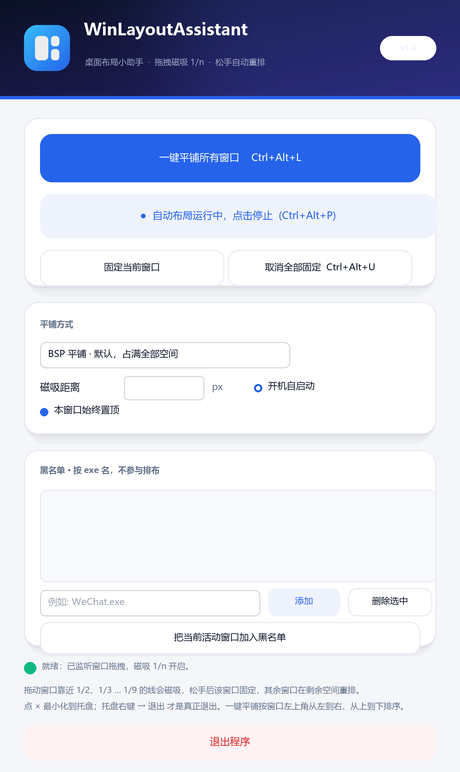
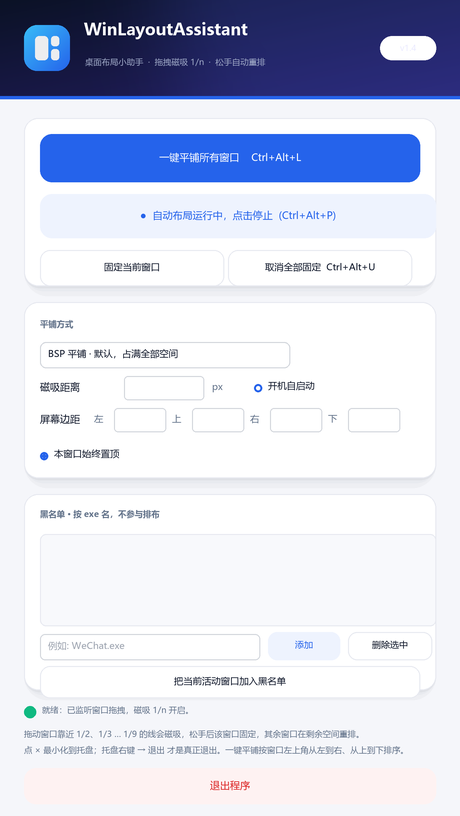
v1.4: per-edge screen margins (left/top/right/bottom)
New settings card row: margins in px are excluded from every layout
area - one-click tile, drag-end reflow and 1/n drag-snap all respect
the same shrunken work area via AppSettings.ApplyMargins(), applied
at the single choke point where a work area enters the pipeline.
Defaults are 0 (previous behavior). Persisted in settings.json.

diff --git a/src/MainForm.cs b/src/MainForm.cs
@@ -32,6 +32,10 @@ public sealed class MainForm : Form
     private readonly RoundedButton _autoBtn = new() { Width = 396, Height = 44, ButtonKind = RoundedButton.Kind.Soft };
     private readonly Label _status = new() { AutoSize = true, ForeColor = Theme.TextSecondary, Font = Theme.SmallFont, BackColor = Theme.Background };
     private readonly List<RoundedPanel> _cards = new();
+    private readonly NumericUpDown _marginL = new() { Minimum = 0, Maximum = 800, Width = 52, Font = Theme.BodyFont };
+    private readonly NumericUpDown _marginT = new() { Minimum = 0, Maximum = 800, Width = 52, Font = Theme.BodyFont };
+    private readonly NumericUpDown _marginR = new() { Minimum = 0, Maximum = 800, Width = 52, Font = Theme.BodyFont };
+    private readonly NumericUpDown _marginB = new() { Minimum = 0, Maximum = 800, Width = 52, Font = Theme.BodyFont };
     private readonly ListBox _blacklistBox = new() { Width = 396, Height = 92, Font = Theme.BodyFont, BorderStyle = BorderStyle.None, BackColor = Theme.Well };
     private readonly TextBox _blacklistInput = new() { Width = 220, Font = Theme.BodyFont, PlaceholderText = "例如: WeChat.exe", BorderStyle = BorderStyle.FixedSingle };
 
@@ -51,6 +55,10 @@ public sealed class MainForm : Form
         _threshold.Value = _settings.SnapThreshold;
         _startup.Checked = _settings.RunAtStartup;
         _topmost.Checked = _settings.TopMost;
+        _marginL.Value = _settings.MarginLeft;
+        _marginT.Value = _settings.MarginTop;
+        _marginR.Value = _settings.MarginRight;
+        _marginB.Value = _settings.MarginBottom;
         TopMost = _settings.TopMost; // v1.2: stay on top while running, switchable below
         RefreshBlacklistBox();
         UpdateAutoButton();
@@ -79,7 +87,7 @@ public sealed class MainForm : Form
         card1.Controls.AddRange(new Control[] { tileBtn, _autoBtn, pinBtn, unpinBtn });
 
         // --- card 2: layout settings ---
-        var card2 = new RoundedPanel { Top = 302, Left = 24, Width = 412, Height = 132 };
+        var card2 = new RoundedPanel { Top = 302, Left = 24, Width = 412, Height = 176 };
         _cards.Add(card2);
         card2.Controls.Add(new SectionLabel("平铺方式") { Top = 16, Left = 16 });
         _modeBox.Top = 40; _modeBox.Left = 16;
@@ -87,11 +95,21 @@ public sealed class MainForm : Form
         _threshold.Top = 74; _threshold.Left = 100;
         card2.Controls.Add(new Label { Text = "px", Top = 78, Left = 188, AutoSize = true, Font = Theme.BodyFont, ForeColor = Theme.TextSecondary, BackColor = Theme.Card });
         _startup.Top = 76; _startup.Left = 230;
-        _topmost.Top = 100; _topmost.Left = 16;
-        card2.Controls.AddRange(new Control[] { _modeBox, _threshold, _startup, _topmost });
+        // v1.4: per-edge screen margins excluded from tiling / reflow / snap
+        card2.Controls.Add(new Label { Text = "屏幕边距", Top = 110, Left = 16, AutoSize = true, Font = Theme.BodyFont, ForeColor = Theme.Text, BackColor = Theme.Card });
+        card2.Controls.Add(new Label { Text = "左", Top = 110, Left = 90, AutoSize = true, Font = Theme.BodyFont, ForeColor = Theme.TextSecondary, BackColor = Theme.Card });
+        _marginL.Top = 106; _marginL.Left = 110;
+        card2.Controls.Add(new Label { Text = "上", Top = 110, Left = 168, AutoSize = true, Font = Theme.BodyFont, ForeColor = Theme.TextSecondary, BackColor = Theme.Card });
+        _marginT.Top = 106; _marginT.Left = 188;
+        card2.Controls.Add(new Label { Text = "右", Top = 110, Left = 246, AutoSize = true, Font = Theme.BodyFont, ForeColor = Theme.TextSecondary, BackColor = Theme.Card });
+        _marginR.Top = 106; _marginR.Left = 266;
+        card2.Controls.Add(new Label { Text = "下", Top = 110, Left = 324, AutoSize = true, Font = Theme.BodyFont, ForeColor = Theme.TextSecondary, BackColor = Theme.Card });
+        _marginB.Top = 106; _marginB.Left = 344;
+        _topmost.Top = 144; _topmost.Left = 16;
+        card2.Controls.AddRange(new Control[] { _modeBox, _threshold, _startup, _topmost, _marginL, _marginT, _marginR, _marginB });
 
         // --- card 3: blacklist ---
-        var card3 = new RoundedPanel { Top = 450, Left = 24, Width = 412, Height = 196 };
+        var card3 = new RoundedPanel { Top = 494, Left = 24, Width = 412, Height = 196 };
         _cards.Add(card3);
         card3.Controls.Add(new SectionLabel("黑名单 · 按 exe 名，不参与排布") { Top = 14, Left = 16 });
         _blacklistBox.Top = 40; _blacklistBox.Left = 16;
@@ -105,22 +123,26 @@ public sealed class MainForm : Form
         card3.Controls.AddRange(new Control[] { _blacklistBox, _blacklistInput, blAddBtn, blDelBtn, blActiveBtn });
 
         // --- footer: status + exit ---
-        var dot = new GlowDot { Top = 662, Left = 24, Width = 12, Height = 12 };
-        _status.Top = 660; _status.Left = 42; _status.Width = 380;
+        var dot = new GlowDot { Top = 706, Left = 24, Width = 12, Height = 12 };
+        _status.Top = 704; _status.Left = 42; _status.Width = 380;
         var hint = new Label
         {
             Text = "拖动窗口靠近 1/2、1/3 … 1/9 的线会磁吸，松手后该窗口固定，其余窗口在剩余空间重排。\r\n点 × 最小化到托盘；托盘右键 → 退出 才是真正退出。一键平铺按窗口左上角从左到右、从上到下排序。",
-            Top = 684, Left = 24, Width = 412, Height = 36, ForeColor = Theme.TextSecondary, Font = Theme.SmallFont, BackColor = Theme.Background
+            Top = 728, Left = 24, Width = 412, Height = 36, ForeColor = Theme.TextSecondary, Font = Theme.SmallFont, BackColor = Theme.Background
         };
-        var exitBtn = new RoundedButton { Text = "退出程序", Width = 412, Height = 36, Top = 724, Left = 24, ButtonKind = RoundedButton.Kind.DangerSoft };
+        var exitBtn = new RoundedButton { Text = "退出程序", Width = 412, Height = 36, Top = 768, Left = 24, ButtonKind = RoundedButton.Kind.DangerSoft };
         exitBtn.Click += (_, _) => ExitApp();
         Controls.AddRange(new Control[] { header, accentBar, card1, card2, card3, dot, _status, hint, exitBtn });
-        ClientSize = new Size(460, 772);
+        ClientSize = new Size(460, 816);
 
         _modeBox.SelectedIndexChanged += (_, _) => { _settings.LayoutMode = (TileEngine.Mode)_modeBox.SelectedIndex; _settings.Save(); };
         _threshold.ValueChanged += (_, _) => { _settings.SnapThreshold = (int)_threshold.Value; _settings.Save(); };
         _startup.CheckedChanged += (_, _) => { _settings.RunAtStartup = _startup.Checked; _settings.Save(); ApplyStartup(); };
         _topmost.CheckedChanged += (_, _) => { _settings.TopMost = _topmost.Checked; TopMost = _topmost.Checked; _settings.Save(); };
+        _marginL.ValueChanged += (_, _) => { _settings.MarginLeft = (int)_marginL.Value; _settings.Save(); };
+        _marginT.ValueChanged += (_, _) => { _settings.MarginTop = (int)_marginT.Value; _settings.Save(); };
+        _marginR.ValueChanged += (_, _) => { _settings.MarginRight = (int)_marginR.Value; _settings.Save(); };
+        _marginB.ValueChanged += (_, _) => { _settings.MarginBottom = (int)_marginB.Value; _settings.Save(); };
 
         // v1.4: use the packaged app icon (Assets/AppIcon.ico -> exe icon)
         // for both the title bar and the tray; fall back to the stock icon
@@ -287,7 +309,7 @@ public sealed class MainForm : Form
         var wins = WindowHelper.GetTileableWindows(Handle, _settings);
         if (wins.Count == 0) { UpdateStatus("没有可平铺的窗口（可能都被黑名单排除了）。"); return; }
         var ordered = SortByTopLeft(wins);
-        foreach (var group in ordered.GroupBy(w => WindowHelper.GetWorkArea(w)))
+        foreach (var group in ordered.GroupBy(w => _settings.ApplyMargins(WindowHelper.GetWorkArea(w))))
         {
             var rects = TileEngine.Tile(group.Key, group.Count(), _settings.LayoutMode);
             int i = 0;
@@ -322,7 +344,7 @@ public sealed class MainForm : Form
         var rest = SortByTopLeft(all.Where(w => !_pinned.Contains(w)));
         if (rest.Count == 0) { UpdateStatus($"已固定 {_pinned.Count} 个窗口，没有剩余窗口需要重排。"); return; }
 
-        var area = WindowHelper.GetWorkArea(rest[0]);
+        var area = _settings.ApplyMargins(WindowHelper.GetWorkArea(rest[0]));
         var pinnedRects = _pinned
             .Where(h => WindowHelper.TryGetRect(h, out _))
             .Select(h => { WindowHelper.TryGetRect(h, out var r); return r; })

diff --git a/src/AppSettings.cs b/src/AppSettings.cs
@@ -12,6 +12,23 @@ public sealed class AppSettings
     public string TileHotkey { get; set; } = "Ctrl+Alt+L"; // one-click tile
     public string UnpinHotkey { get; set; } = "Ctrl+Alt+U"; // unpin all
 
+    // v1.4: screen-edge margins (px) excluded from every layout area.
+    // CSS-style: MarginRight cuts the RIGHT edge, MarginLeft the left, etc.
+    public int MarginLeft { get; set; } = 0;
+    public int MarginTop { get; set; } = 0;
+    public int MarginRight { get; set; } = 0;
+    public int MarginBottom { get; set; } = 0;
+
+    /// <summary>Shrink a work area by the configured margins. Applied at the
+    /// single choke point where a work area enters the layout pipeline, so
+    /// tiling, reflow and 1/n drag-snap all respect the same bounds.</summary>
+    public Rectangle ApplyMargins(Rectangle area)
+    {
+        int w = Math.Max(0, area.Width - MarginLeft - MarginRight);
+        int h = Math.Max(0, area.Height - MarginTop - MarginBottom);
+        return new Rectangle(area.X + MarginLeft, area.Y + MarginTop, w, h);
+    }
+
     /// <summary>Exe names (case-insensitive, one per line in the UI) that are
     /// never tiled / never reflowed. Matched against the process exe file name,
     /// e.g. "TextInputHost.exe".</summary>

diff --git a/src/DragMonitor.cs b/src/DragMonitor.cs
@@ -60,7 +60,7 @@ public sealed class DragMonitor : IDisposable
         if (eventType == EVENT_SYSTEM_MOVESIZESTART)
         {
             _dragHwnd = hwnd;
-            _dragArea = WindowHelper.GetWorkArea(hwnd);
+            _dragArea = _settings.ApplyMargins(WindowHelper.GetWorkArea(hwnd));
             if (!WindowHelper.TryGetRect(hwnd, out _dragStartRect)) _dragStartRect = Rectangle.Empty;
             _dragWasResize = false;
             _poll.Start();
